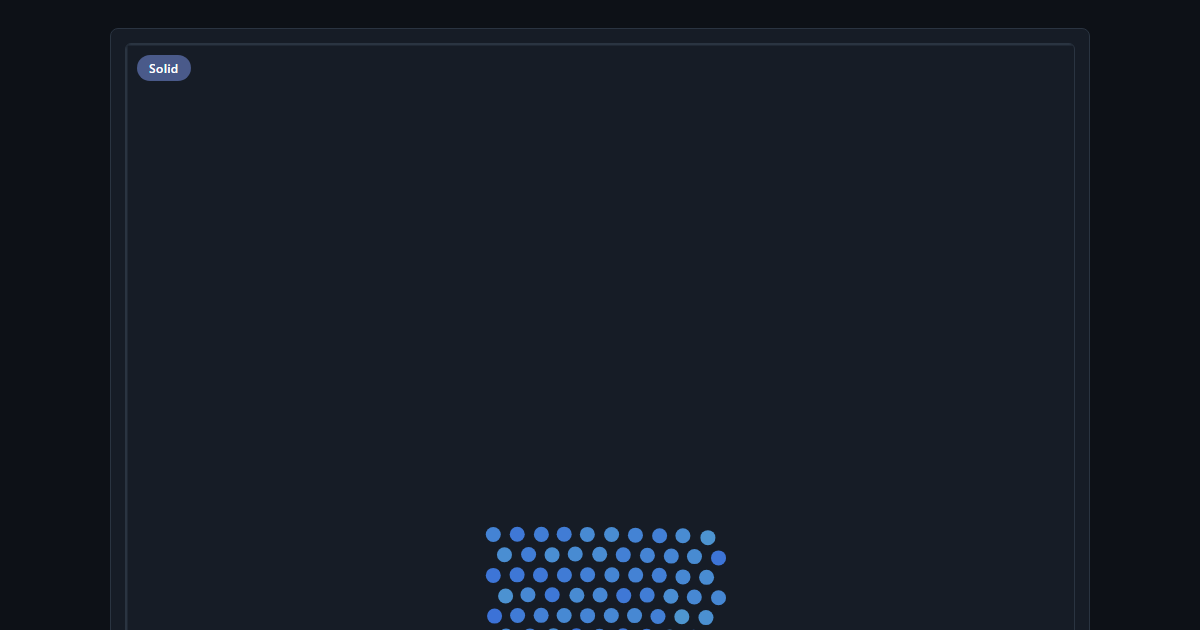
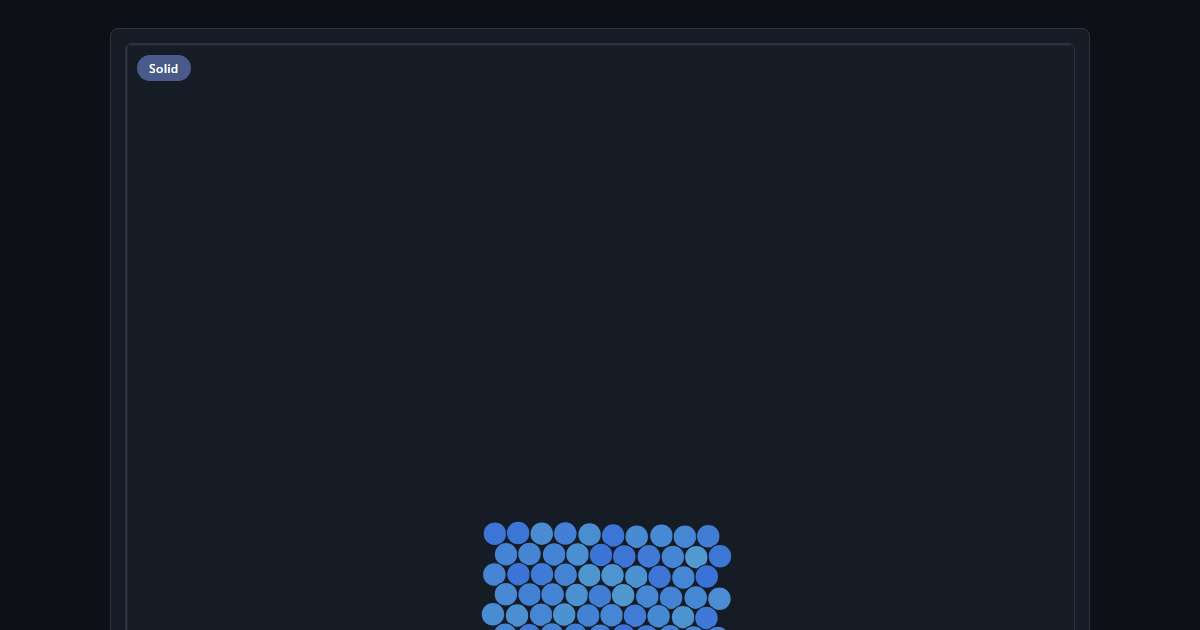
Update dateModified fields in simulation HTML files and adjust particle rendering in phase transitions simulation

Changed region(s): [[0.4008, 0.8143, 0.6167, 1.0]]

diff --git a/simulations/phase-transitions-sim.html b/simulations/phase-transitions-sim.html
@@ -632,7 +632,12 @@
   // ---------- Rendering ----------
   const canvas = document.getElementById("simCanvas");
   const ctx = canvas.getContext("2d");
-  const PARTICLE_RADIUS_PX = 5;
+  // Drawn radius is half the equilibrium separation, so neighbours in the solid sit
+  // touching (as LJ discs at the potential minimum should) rather than floating apart.
+  const PARTICLE_RADIUS_PX = LATTICE_SPACING * PXP / 2;
+  // A hairline seam in the background colour keeps overlapping discs readable as
+  // separate particles when thermal vibration pushes neighbours slightly into each other.
+  const PARTICLE_SEAM_PX = 0.75;
 
   // ---------- Responsive canvas sizing ----------
   // All drawing below (render(), the box border, particle positions) is expressed in a
@@ -699,12 +704,15 @@
     ctx.lineWidth = 1;
     ctx.strokeRect(0.5, 0.5, BOX_W * PXP, BOX_H * PXP);
 
+    ctx.strokeStyle = THEME.surface;
+    ctx.lineWidth = PARTICLE_SEAM_PX;
     for (let i = 0; i < N; i++) {
       const speed = Math.sqrt(vx[i] * vx[i] + vy[i] * vy[i]);
       ctx.fillStyle = speedColor(speed);
       ctx.beginPath();
       ctx.arc(px[i] * PXP, py[i] * PXP, PARTICLE_RADIUS_PX, 0, Math.PI * 2);
       ctx.fill();
+      ctx.stroke();
     }
   }
 

diff --git a/sims/mo-formation-heteronuclear-sim/index.html b/sims/mo-formation-heteronuclear-sim/index.html
@@ -112,7 +112,7 @@
       },
       "image": "https://chemistr.io/assets/img/og/mo-formation-heteronuclear-sim.png",
       "datePublished": "2026-07-24",
-      "dateModified": "2026-09-13"
+      "dateModified": "2026-09-18"
     }
   ]
 }

diff --git a/sims/phase-transitions-sim/index.html b/sims/phase-transitions-sim/index.html
@@ -111,7 +111,7 @@
         "@id": "https://chemistr.io/#website"
       },
       "image": "https://chemistr.io/assets/img/og/phase-transitions-sim.png",
-      "dateModified": "2026-09-13"
+      "dateModified": "2026-09-18"
     }
   ]
 }

diff --git a/sims/mo-formation-homonuclear-sim/index.html b/sims/mo-formation-homonuclear-sim/index.html
@@ -112,7 +112,7 @@
       },
       "image": "https://chemistr.io/assets/img/og/mo-formation-homonuclear-sim.png",
       "datePublished": "2026-07-23",
-      "dateModified": "2026-09-13"
+      "dateModified": "2026-09-18"
     }
   ]
 }

diff --git a/sims/rates-collision-sim/index.html b/sims/rates-collision-sim/index.html
@@ -111,7 +111,7 @@
         "@id": "https://chemistr.io/#website"
       },
       "image": "https://chemistr.io/assets/img/og/rates-collision-sim.png",
-      "dateModified": "2026-09-13"
+      "dateModified": "2026-09-18"
     }
   ]
 }

diff --git a/sims/diffusion-tube-sim/index.html b/sims/diffusion-tube-sim/index.html
@@ -111,7 +111,7 @@
         "@id": "https://chemistr.io/#website"
       },
       "image": "https://chemistr.io/assets/img/og/diffusion-tube-sim.png",
-      "dateModified": "2026-09-13"
+      "dateModified": "2026-09-18"
     }
   ]
 }

diff --git a/sims/maxwell-boltzmann/index.html b/sims/maxwell-boltzmann/index.html
@@ -111,7 +111,7 @@
         "@id": "https://chemistr.io/#website"
       },
       "image": "https://chemistr.io/assets/img/og/maxwell-boltzmann.png",
-      "dateModified": "2026-09-13"
+      "dateModified": "2026-09-18"
     }
   ]
 }

diff --git a/sims/curly-arrows-sim/index.html b/sims/curly-arrows-sim/index.html
@@ -111,7 +111,7 @@
         "@id": "https://chemistr.io/#website"
       },
       "image": "https://chemistr.io/assets/img/og/curly-arrows-sim.png",
-      "dateModified": "2026-09-13"
+      "dateModified": "2026-09-18"
     }
   ]
 }

diff --git a/sims/ao-density-sim/index.html b/sims/ao-density-sim/index.html
@@ -111,7 +111,7 @@
         "@id": "https://chemistr.io/#website"
       },
       "image": "https://chemistr.io/assets/img/og/ao-density-sim.png",
-      "dateModified": "2026-09-13"
+      "dateModified": "2026-09-18"
     }
   ]
 }

diff --git a/sims/giant-structures-sim/index.html b/sims/giant-structures-sim/index.html
@@ -112,7 +112,7 @@
       },
       "image": "https://chemistr.io/assets/img/og/giant-structures-sim.png",
       "datePublished": "2026-09-13",
-      "dateModified": "2026-09-13"
+      "dateModified": "2026-09-18"
     }
   ]
 }

diff --git a/sims/brownian-motion-sim/index.html b/sims/brownian-motion-sim/index.html
@@ -112,7 +112,7 @@
       },
       "image": "https://chemistr.io/assets/img/og/brownian-motion-sim.png",
       "datePublished": "2026-08-04",
-      "dateModified": "2026-09-13"
+      "dateModified": "2026-09-18"
     }
   ]
 }

diff --git a/sims/mo-formation-sp-sim/index.html b/sims/mo-formation-sp-sim/index.html
@@ -112,7 +112,7 @@
       },
       "image": "https://chemistr.io/assets/img/og/mo-formation-sp-sim.png",
       "datePublished": "2026-07-23",
-      "dateModified": "2026-09-13"
+      "dateModified": "2026-09-18"
     }
   ]
 }
